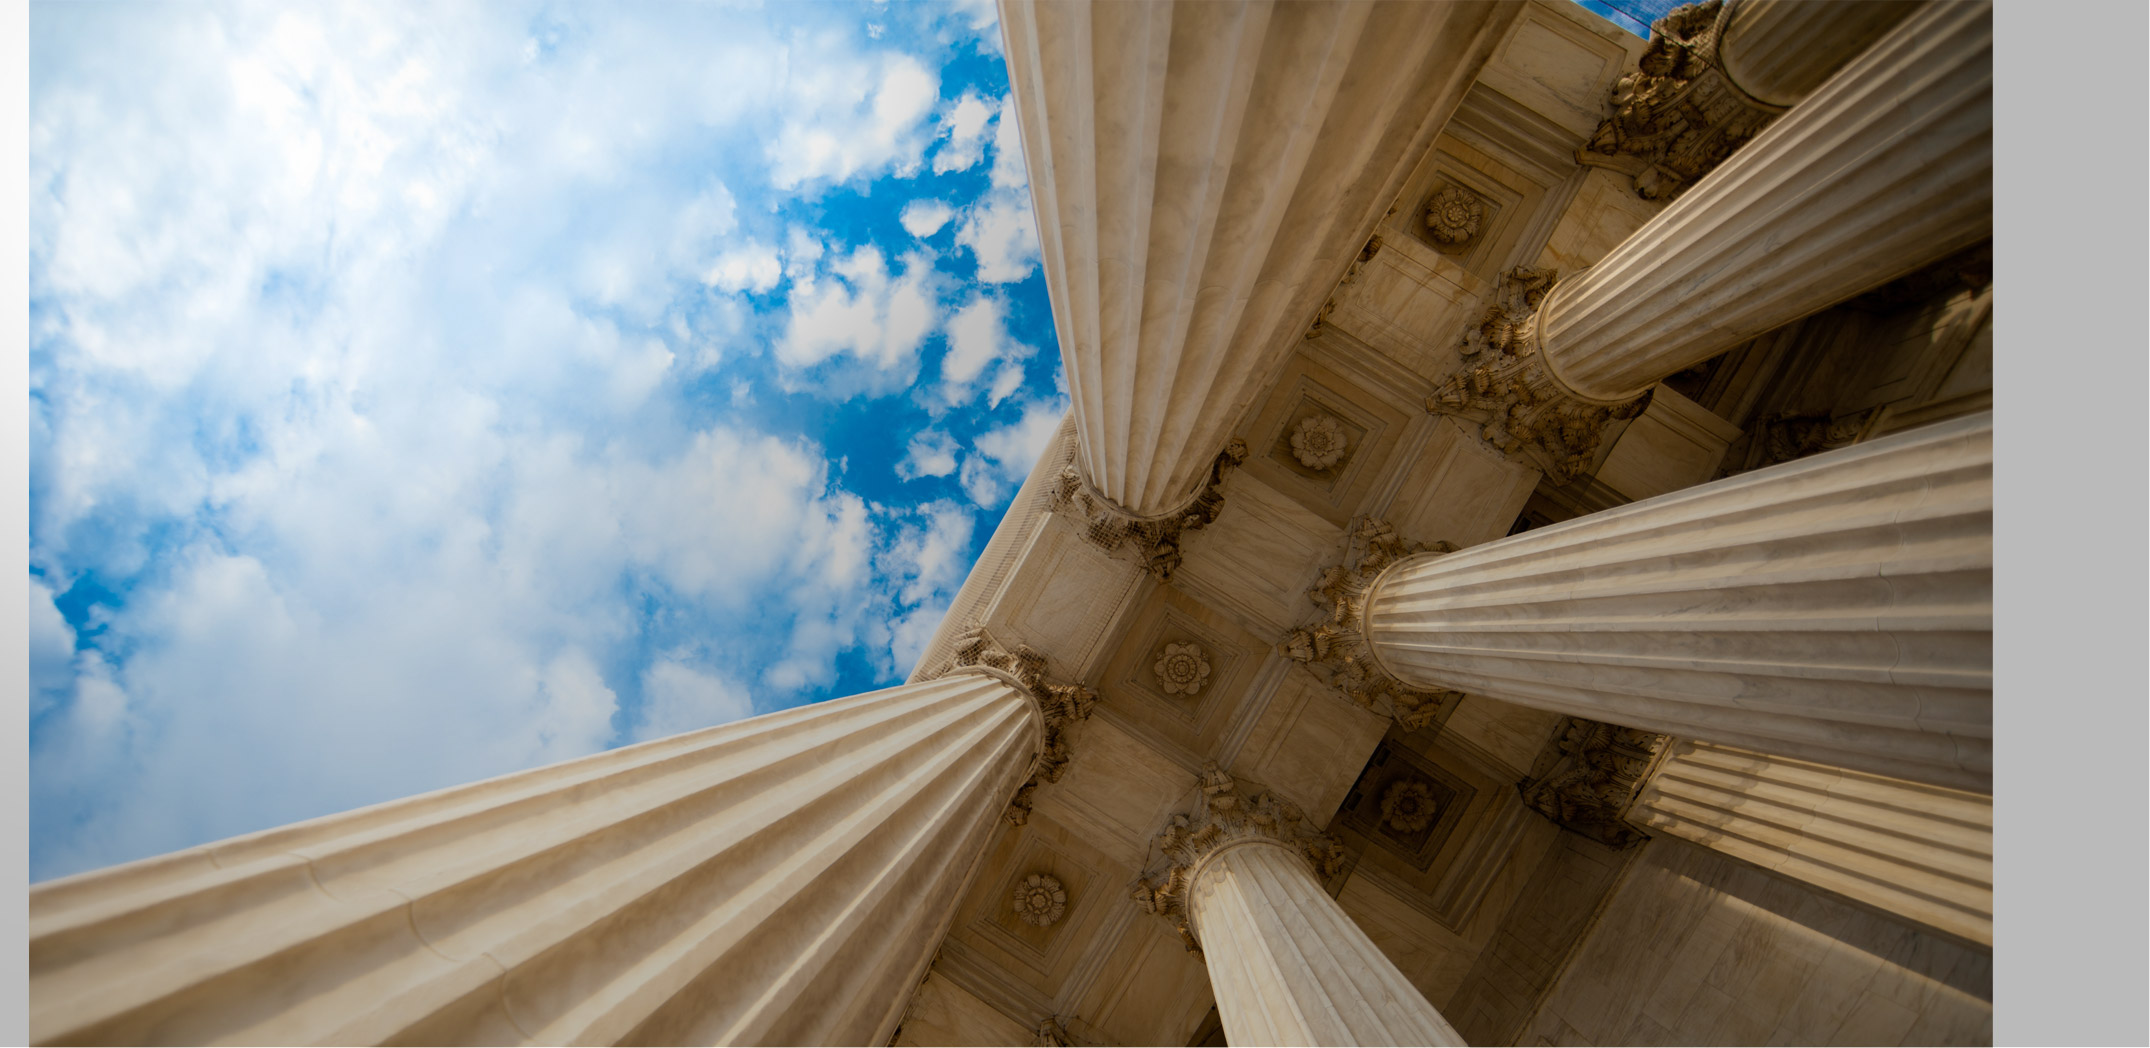
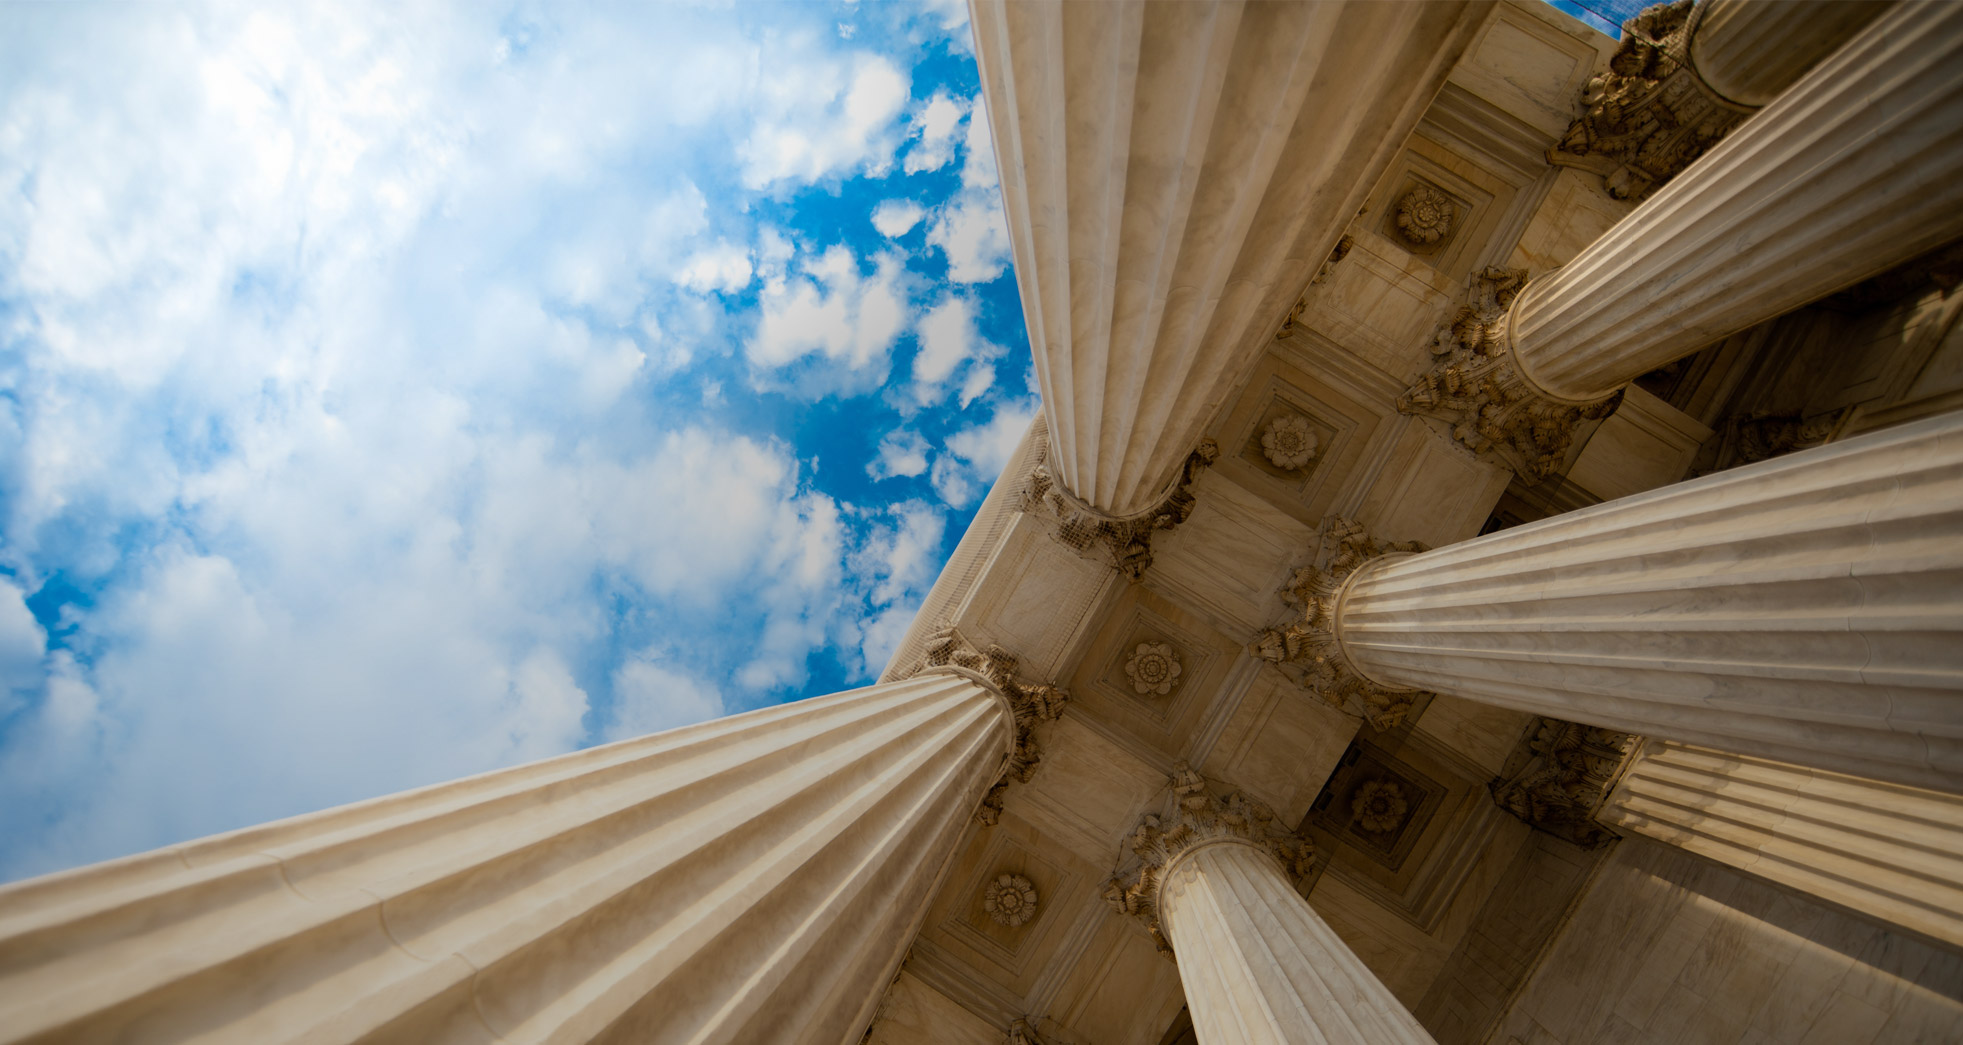
картинка на фон без огрехов

diff --git a/src/styles/pages/_index.scss b/src/styles/pages/_index.scss
@@ -30,18 +30,18 @@ body.index {
     .bg.rotated {
       position: absolute;
       overflow: hidden;
-      height: 1100px;
+      height: 1200px;
       width: 100%;
 
       .img {
         position: absolute;
-        margin-top: -590px;
+        margin-top: -720px;
         left: 50%;
-        margin-left: -650px;
+        margin-left: -700px;
         border-radius: 15px;
 
         border: 0;
-        $s: 1300px;
+        $s: 1400px;
 
         width: $s;
         height: $s;
@@ -49,7 +49,7 @@ body.index {
         i {
           width: $s * 1.41;
           height: $s * 1.41;  
-          margin-left: -$s * 0.44;
+          margin: 50px 0 0 -640px;
         }
 
         .s1 {
